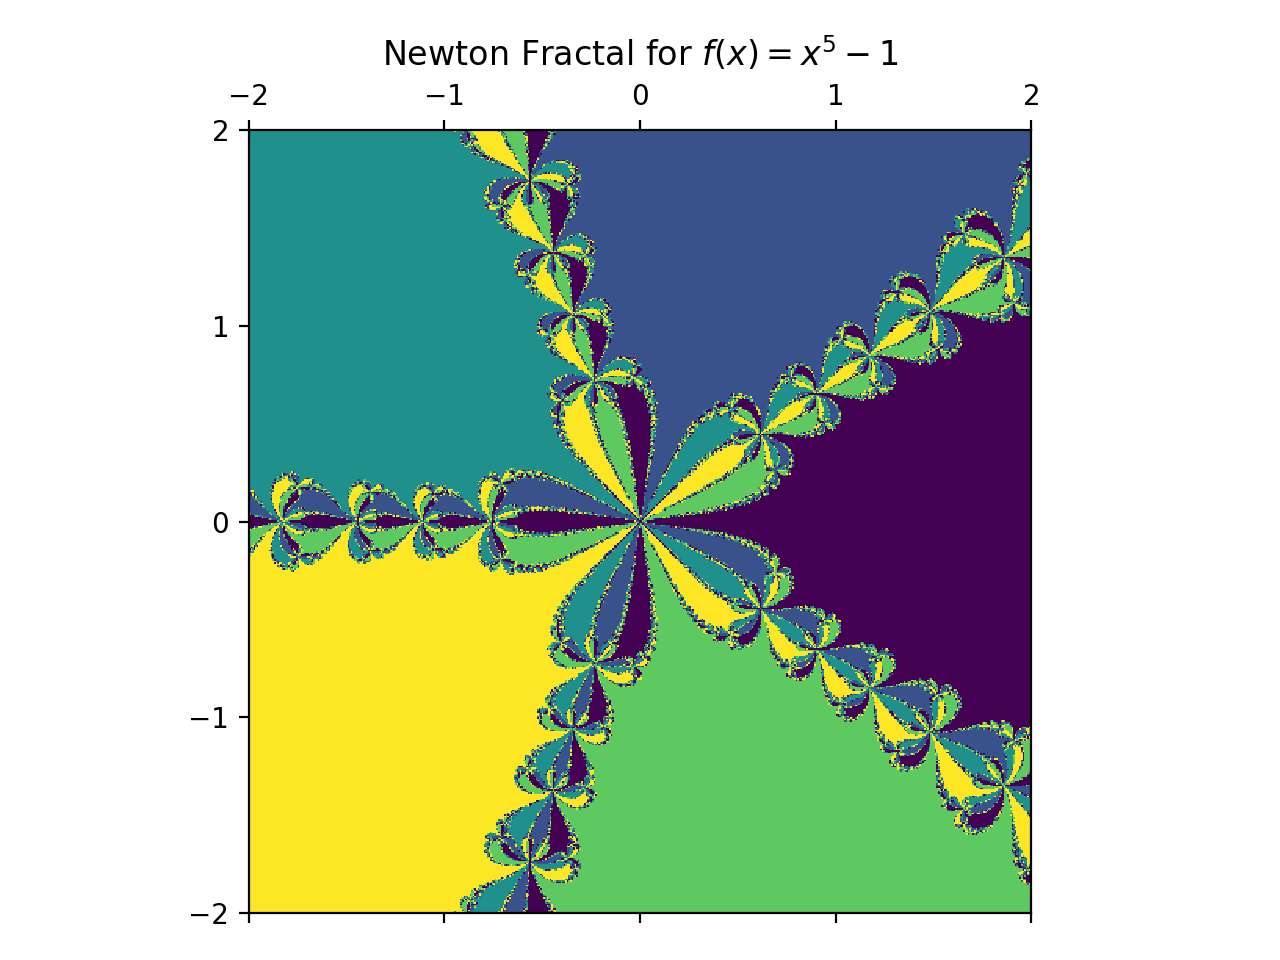
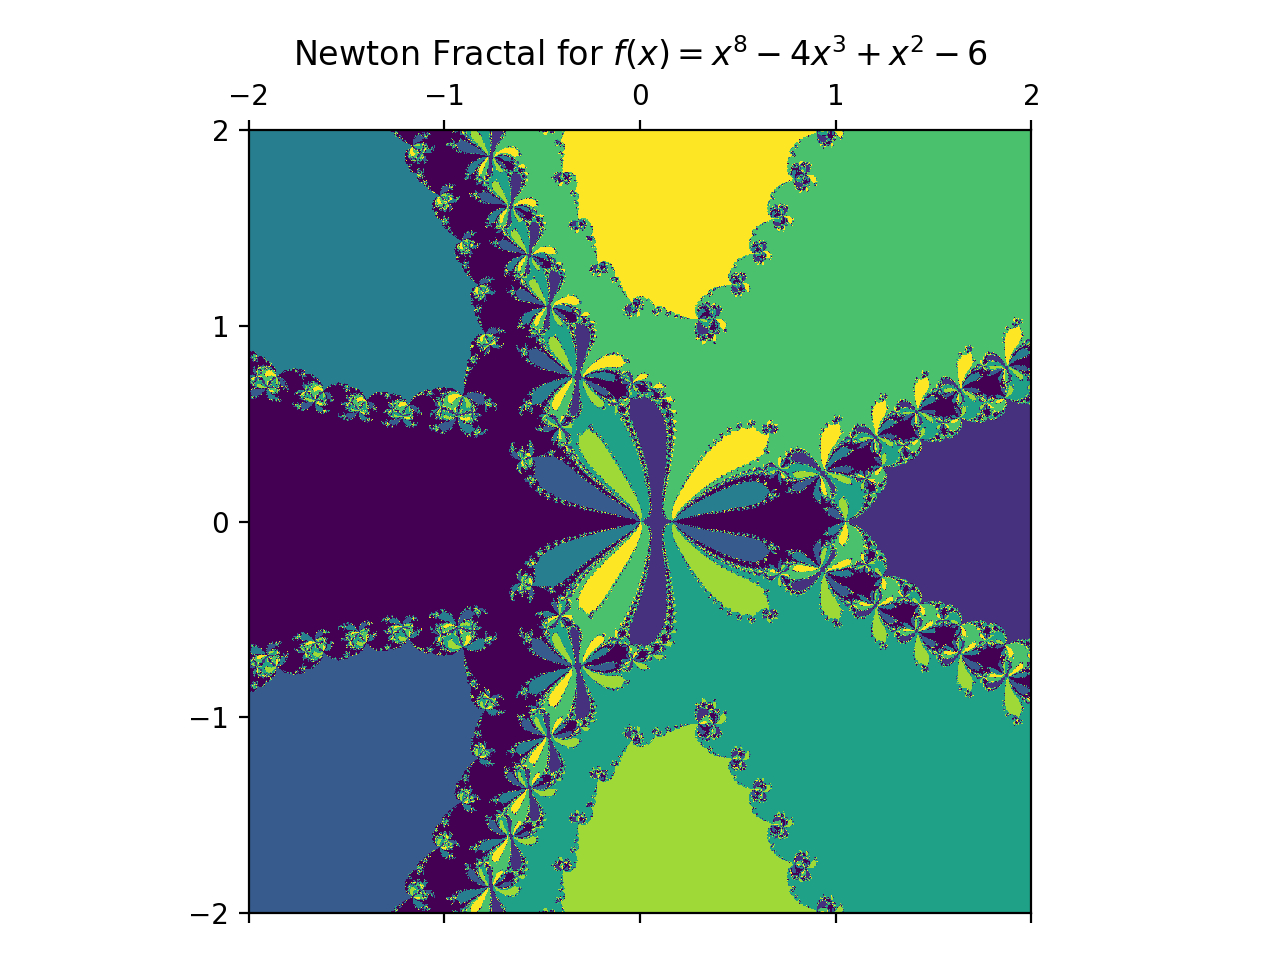
Update README

diff --git a/docs/tutorial/index.rst b/docs/tutorial/index.rst
@@ -115,7 +115,7 @@ Generating Fractal
 ++++++++++++++++++
 To generate the fractal all we have to do now is call the method ``plot``,
 and pass in the axes limits along with the desired resolution of the
-image which returns a ``matplotlib.Figure.figure``::
+image which returns a ``matplotlib.figure.Figure``::
 
     >>> xmin, xmax, ymin, ymax = -2, 2, -2, 2
     >>> p = model.plot(xmin, xmax, ymin, ymax, (500, 500))

diff --git a/README.md b/README.md
@@ -21,8 +21,8 @@ Here is an example of generating Newton Fractal for <img src="https://render.git
 
 ```python
 from fractpy.models import NewtonFractal
-model = NewtonFractal("x**5 - 1")
-p = model.plot(-2, 2, -2, 2)
+model = NewtonFractal("x**8 - 4x**3 + x**2 - 6")
+p = model.plot(-2, 2, -2, 2, (1000, 1000))
 p.show()
 ```
 
